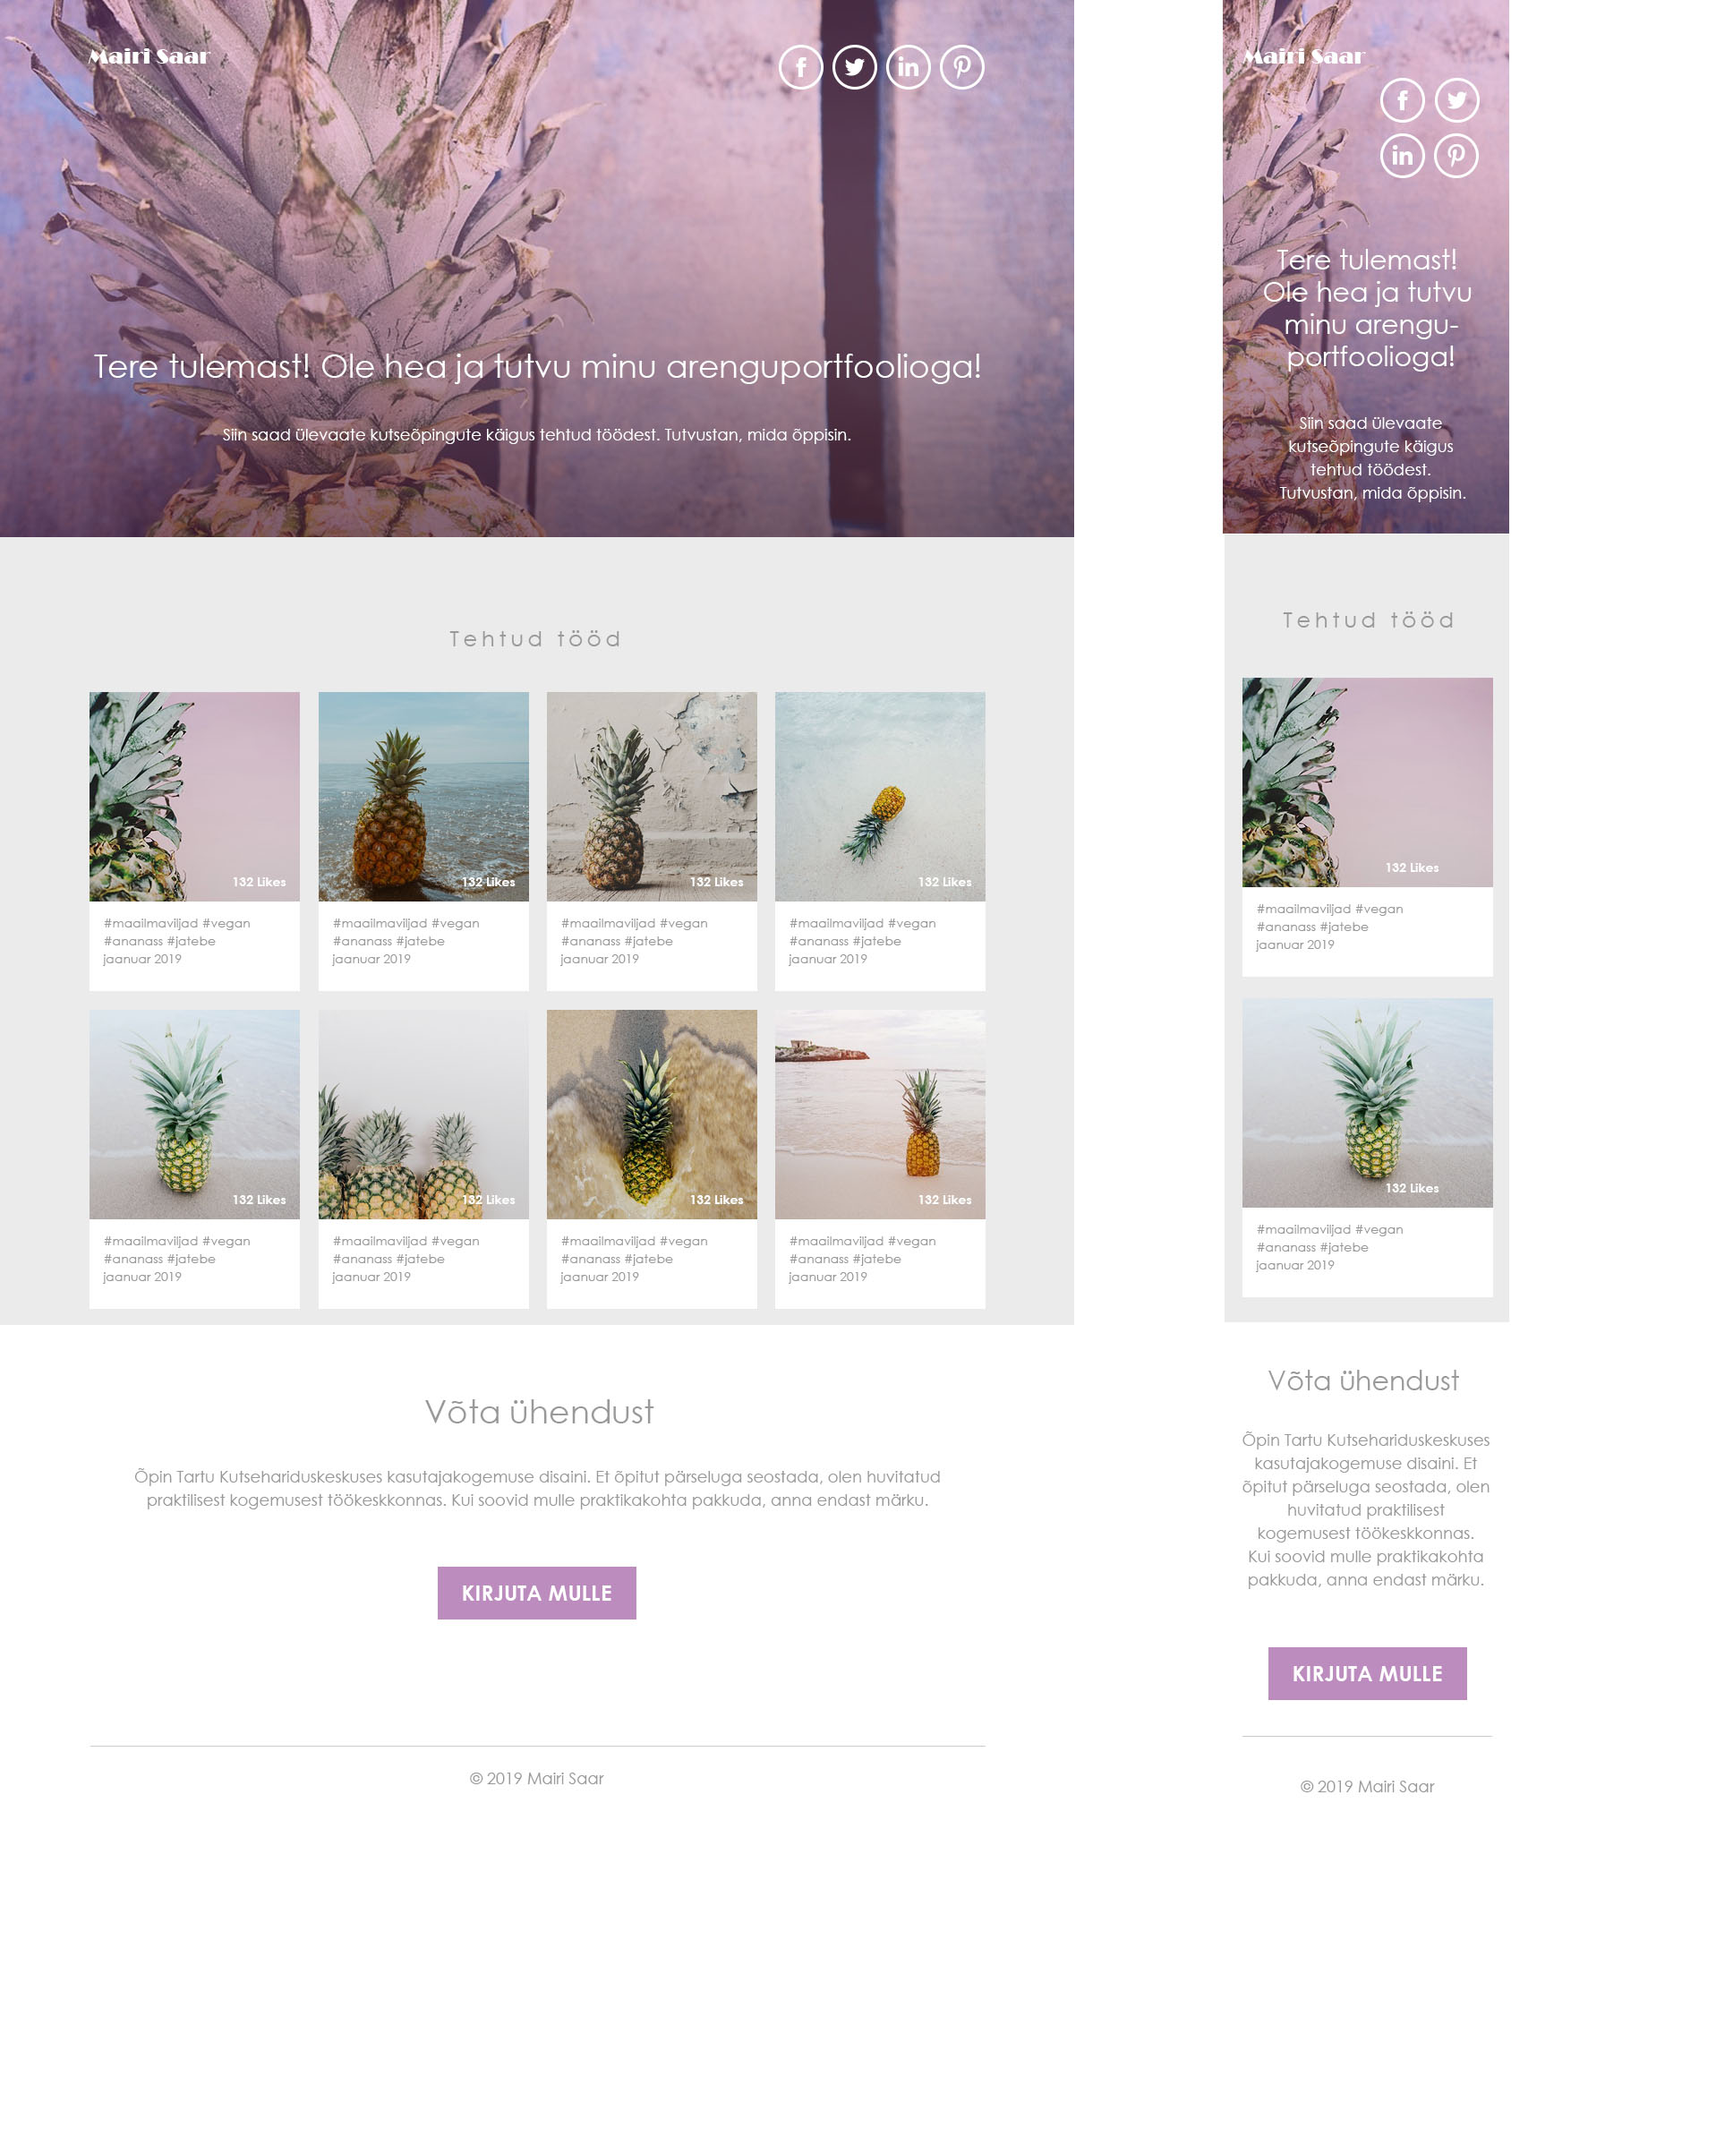
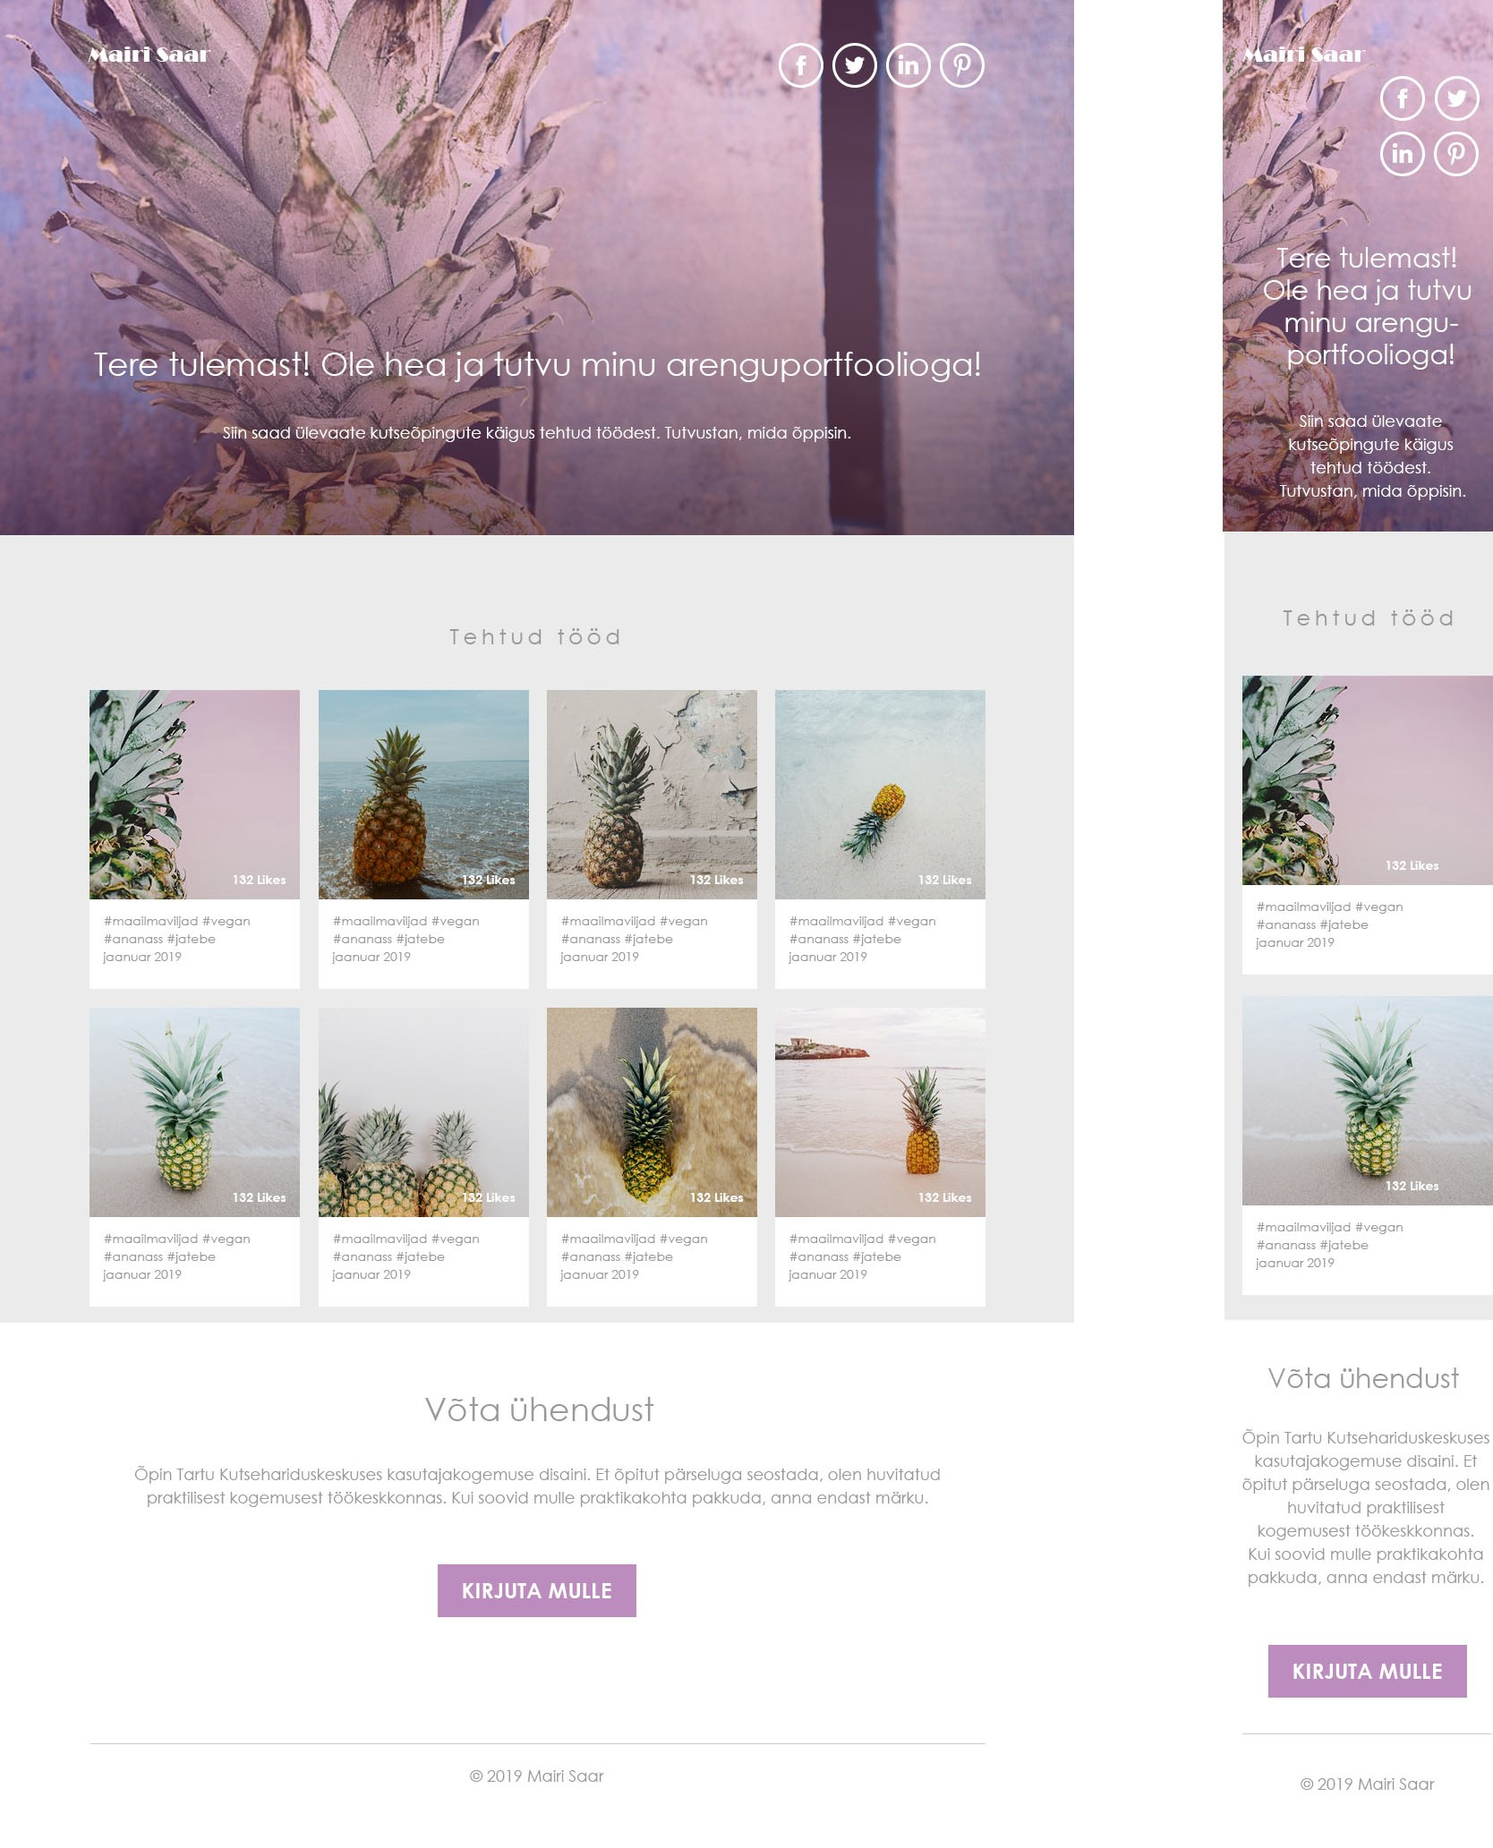
Add footer

diff --git a/index.html b/index.html
@@ -24,7 +24,6 @@
         <ul>
             <li><a href="#work">Tehtud tööd</a></li>
             <li><a href="#about">Minust</a></li>
-           <li><a href="#contact">Kontakt</a></li>
         </ul>
     </nav>
 
@@ -34,11 +33,11 @@
             <div class="work-container">
                 <div class="work-card">
                     <div class="work-img">
-                        <img src="images/1.png" alt="Animal Shelter Webpage Prototype">
+                        <img src="images/1.jpg" alt="Animal Shelter Webpage Prototype">
                     </div>
                     <div class="text work-text">
                         <h2>Loomade varjupaiga lehe prototüüp</h2>
-                        <p>Mõtlesin välja loomade varjupaiga lehe kujunduse ja valmistasin prototüübi.</p>
+                        <p>Mõtlesin välja loomade varjupaiga lehe kujunduse ja valmistasin prototüübi. Mis saab siis, kui siin on pikem tekst.</p>
                         <p>Vahendid: Figma</p>
                         <a href="https://www.figma.com/file/YivUJaAwcCSdt1cWXh6Hn0NM/Loomade-varjupaik?node-id=0%3A1" target="_blank"><p>Vaata täpsemalt</p></a>
                     </div>
@@ -60,7 +59,7 @@
                     </div>
                     <div class="text work-text">
                         <h2>Jõulukaart Tartu Kutsehariduskeskusele</h2>
-                        <p>Tihase joonistamiseks kasutasin graafikalauda. Joonistust töötlesin Adobe Photoshop-i abil. Kaardi küljendamiseks kasutasin Adobe Illustratorit.</p>
+                        <p>Tihase joonistasin graafikalaual. Joonistust töötlesin Photoshop-i abil. Kaardi küljendamiseks kasutasin Illustratorit.</p>
                         <p>Kasutatud vahendid: Wacom graafikalaud, ArtRage, Photoshop, Illustrator</p>
                         <a href="https://www.dropbox.com/s/rywu1s9sup5tld4/Kolm_tihast_joulukaart.pdf?dl=0" target="_blank"><p>Vaata täpsemalt</p></a>
                             
@@ -72,10 +71,9 @@
                     </div>
                     <div class="text work-text">
                         <h2>Portfoolio veebilehe kavand</h2>
-                        <p>Veebilehe kavandi harjutus. Kasutasin vabavaralisi fotosid. Harjutasin kihtide paigutamist kaustadesse ja <i>clipping mask</i>-i kasutamist.</i></p>
+                        <p>Veebilehe kavandi harjutus. Kasutasin vabavaralisi fotosid. Harjutasin kihtide paigutamist kaustadesse ja <i>clipping mask</i>-i kasutamist.</p>
                         <p>Kasutatud vahendid: Photoshop</p>
-                        <a href="https://www.dropbox.com/s/8wb9io80miqb07q/Desktop_ja_mobiil_samas_failis_22012019.pdf?dl=0" target="_blank"><p>Vaata täpsemalt</p></a>
-                            
+                        <a href="https://www.dropbox.com/s/8wb9io80miqb07q/Desktop_ja_mobiil_samas_failis_22012019.pdf?dl=0" target="_blank"><p>Vaata täpsemalt</p></a> 
                     </div>
                 </div>
             </div>
@@ -98,22 +96,22 @@
                     <li>HTML5</li>
                     <li>CSS3</li>
                 </ul>
-                <p>Õppekava on laiapõhjaline, õpe praktiline. Õppekava sisu leiad <a href="https://khk.ee/eriala/kasutajakogemuse-disaini-nooremspetsialist/">Tartu Kutsehariduskeskuse lehelt</a>.</p>
-                <p>Tutvu minu <a href="https://mairisaar.github.io/">elulookirjeldusega</a>. </p>
+                <p>Õppekava on laiapõhjaline, õpe praktiline. Õppekava sisu leiad <a href="https://khk.ee/eriala/kasutajakogemuse-disaini-nooremspetsialist/" target="_blank">Tartu Kutsehariduskeskuse lehelt</a>.</p>
+                <p>Tutvu minu <a href="https://docs.google.com/document/d/1JAm7CYmZpz_YvA7JYoI1qIsK3UdhbgDxjmfc3pc3pno/edit?usp=sharing" target="_blank">elulookirjeldusega</a>. </p>
             </div>
         </div>
     </div>
 
-    <footer id="contact" class="nav">
-        <div>
-
+    <footer id="contact" class="footer-content">
+        <div class="footer-text">
+            <a href="mailto:mairi.saar@khk.ee?Subject=Teade%20portfoolio%20lehelt" target="_top"><h1 class="heading">Kirjuta mulle</h1></a>
         </div>
-        <div class="nav footer-nav">
+        <div class="footer-nav">
             <ul>
-                <li><a href="https://twitter.com/MairiSaar"><i class="fab fa-twitter"></i></a></li>
-                <li><a href=""><i class="fab fa-linkedin-in"></i></a></li>
-                <li><a href="https://github.com/mairisaar"><i class="fab fa-github"></i></a></li>
-                <li><a href="https://www.pinterest.com/mairi3233/ux/"><i class="fab fa-pinterest"></i></a></li>
+                <li><a href="https://twitter.com/MairiSaar" target="_blank"><i class="fab fa-twitter"></i></a></li>
+                <li><a href="https://www.linkedin.com/in/mairi-saar/" target="_blank"><i class="fab fa-linkedin-in" ></i></a></li>
+                <li><a href="https://github.com/mairisaar" target="_blank"><i class="fab fa-github"></i></a></li>
+                <li><a href="https://www.pinterest.com/mairi3233/ux/" target="_blank"><i class="fab fa-pinterest"></i></a></li>
             </ul>
         </div>
     </footer>

diff --git a/style.css b/style.css
@@ -50,6 +50,9 @@
 }
 
 .nav {
+    width: 80vw;
+    margin-left: auto;
+    margin-right: auto;
     display: flex;
     flex-direction: column;
     position: sticky; /*see koos j;rgmisega aitab luua sticky menyy*/
@@ -60,7 +63,7 @@
     text-align: center;
     display: flex;
     justify-content: space-around;
-    background-color: rgba(255, 255, 255, 0.6);
+    background-color: rgba(255, 255, 255, 0.8);
     height: 60px;
     line-height: 60px;
 }
@@ -113,14 +116,9 @@
     margin-top: 30px;
     overflow: auto;
 }
-/*
-.work-img, .work-text {
-    height: 90%;
-    margin: auto;
-}
-*/
+
 .work-img {
-    width: 100px;
+    width: 300px;
     height: 300px;
 }
 
@@ -133,6 +131,7 @@
 
 .work-text {
     margin-left: 10px;
+    width: 70%;
 }
 
 .work-text h2 {
@@ -144,16 +143,52 @@
     margin-top: 30px;
 }
 
-footer {
+.footer-content {
+    margin-top: 100px;
     height: 300px;
+    /*background-color: rgba(232, 23, 93, 0.2);*/
+    display: flex;
+    flex-direction: column;
+    justify-content: space-around;
+    align-items: center;
+    padding-bottom: 60px;
 }
 
-.footer-nav {
-    position: absolute;
-    right: 10px;
-    top: 200px;
-    width: 50%;
+.footer-nav ul {
+    text-align: center;
+    display: flex;
+    justify-content: space-around;
+    
+}
+
+.footer-nav li{
+    list-style-type: none;
     font-size: 24px;
+    display: inline-block;
+    margin: 10px;
+}
+
+.footer-nav a {
+    text-decoration: none;
+    color: #363636;
+}
+
+.footer-nav a:hover {
+    color: #CC527A;
+}
+
+.footer-text a {
+    text-decoration: none;
+}
+
+.footer-text h1 {
+    border: #CC527A 1px solid;
+    border-radius: 50px;
+    padding: 20px;
+}
+
+.footer-text h1:hover {
+    box-shadow: 5px 5px 20px 5px rgba(54,54,54,0.2);
 }
 
 @media screen and (max-width: 740px) {
@@ -166,10 +201,16 @@ footer {
     }
     
     .work-img {
-        width: 90%;
+        width: 100%;
         margin-bottom: 10px;
     }
 
-    
+    .work-text {
+        width: 90%;
+    }
+
+    .footer-text h1 {
+        font-size: 36px;
+    }
 
 }
